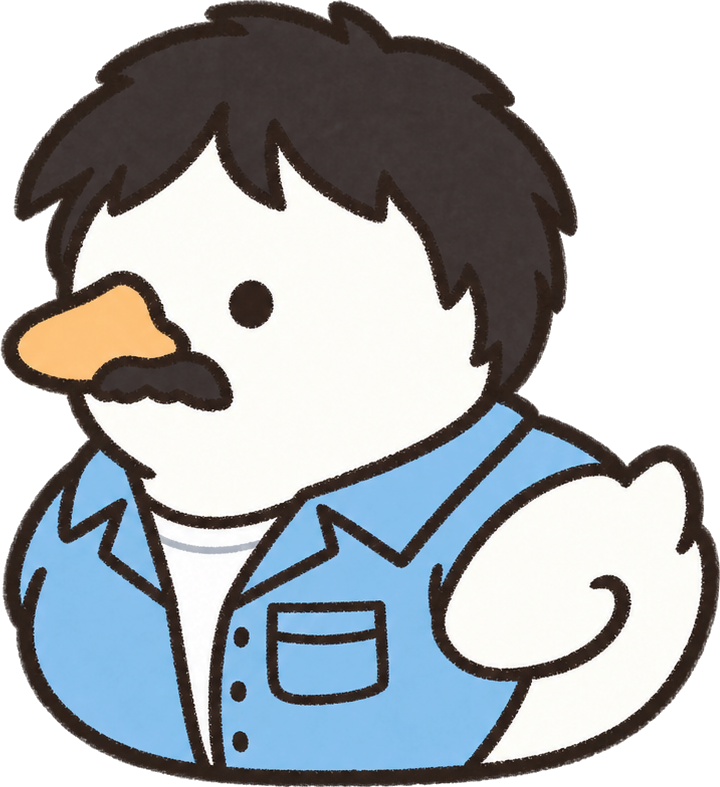
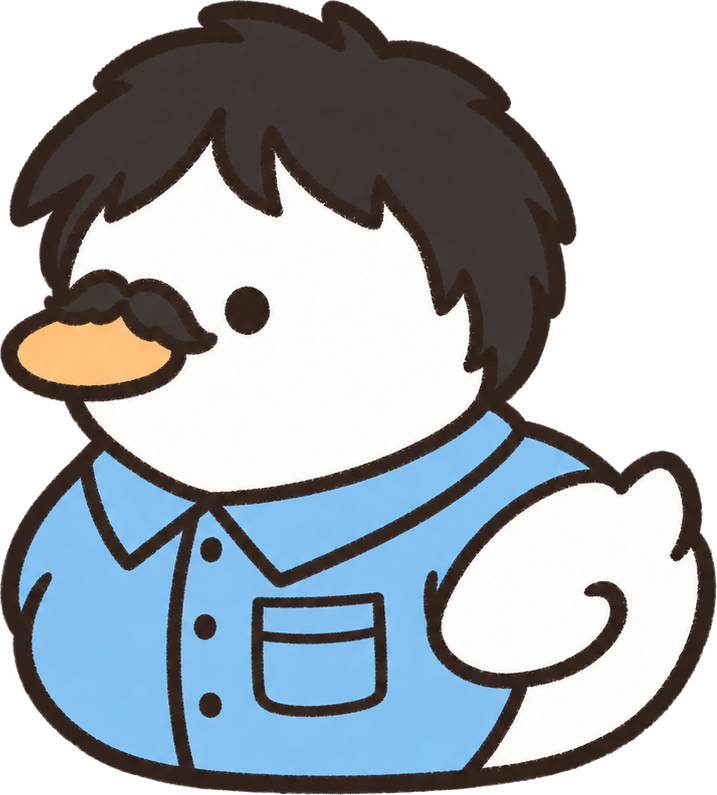
A note on the duck that just hatched, Goku, wittier blurbs, and a few ducks redrawn
The hatched-duck screen has an "Add a note" line: what the session was for, kept with
the session and shown in the log. Super is Goku now, and the blurbs that opened with who
the character is just make their joke. The witch's pail handle sits on the pail; Shulk's
Monado hangs point-down with the real shape; Randy's mustache sits on his beak. The
gallery fetches full-size pictures while you look at the grid, so an enlarged duck is
sharp at once.

diff --git a/web/kinds.js b/web/kinds.js
@@ -19,10 +19,10 @@ window.DAKKU_DUCKS = {
   "blurb": "A cat-ear hoodie. Duck or cat? Yes."
  },
  "super": {
-  "kanji": "金",
-  "name": "Super",
+  "kanji": "悟",
+  "name": "Goku",
   "color": "#F2B83A",
-  "blurb": "Golden hair, orange gi, power level rising."
+  "blurb": "Charges up for three episodes before every session."
  },
  "ninja": {
   "kanji": "忍",
@@ -34,13 +34,13 @@ window.DAKKU_DUCKS = {
   "kanji": "狐",
   "name": "Kitsune",
   "color": "#D9463B",
-  "blurb": "A fox mask from the shrine festival."
+  "blurb": "Keeps its secrets. Also its flashcards."
  },
  "yukata": {
   "kanji": "祭",
   "name": "Matsuri",
   "color": "#4566B8",
-  "blurb": "Dressed up for the summer festival."
+  "blurb": "Fireworks later. Focus first."
  },
  "samurai": {
   "kanji": "侍",
@@ -64,7 +64,7 @@ window.DAKKU_DUCKS = {
   "kanji": "雫",
   "name": "Shizuku",
   "color": "#8EC5EE",
-  "blurb": "A school idol. Every session is a stage."
+  "blurb": "Every session is a stage. No encore needed."
  },
  "nurse": {
   "kanji": "看護",
@@ -82,19 +82,19 @@ window.DAKKU_DUCKS = {
   "kanji": "鳴門",
   "name": "Naruto",
   "color": "#F28C28",
-  "blurb": "Never gives up on a session."
+  "blurb": "Believe it: one more session, dattebayo."
  },
  "loid": {
   "kanji": "黄昏",
   "name": "Loid",
   "color": "#3E6B4F",
-  "blurb": "A spy on a mission: study hard and blend in."
+  "blurb": "Mission: study hard, blend in. Mostly the first one."
  },
  "yor": {
   "kanji": "茨",
   "name": "Yor",
   "color": "#B3243A",
-  "blurb": "The Thorn Princess. Deadly focused."
+  "blurb": "Assassinates distractions. Cooking is another matter."
  },
  "anya": {
   "kanji": "心",
@@ -112,13 +112,13 @@ window.DAKKU_DUCKS = {
   "kanji": "王子",
   "name": "Vegeta",
   "color": "#2F4FA8",
-  "blurb": "A Saiyan prince never skips a study day."
+  "blurb": "It's over 9,000 minutes. Still not satisfied."
  },
  "clive": {
   "kanji": "炎",
   "name": "Clive",
   "color": "#E0632A",
-  "blurb": "A Dominant of fire, with a study plan."
+  "blurb": "Burns through the reading list. Literally."
  },
  "sonic": {
   "kanji": "速",
@@ -130,7 +130,7 @@ window.DAKKU_DUCKS = {
   "kanji": "雲",
   "name": "Cloud",
   "color": "#4C5A7A",
-  "blurb": "Ex-SOLDIER. Carries a sword as big as the syllabus."
+  "blurb": "Carries a sword as big as the syllabus."
  },
  "sora": {
   "kanji": "空",
@@ -142,7 +142,7 @@ window.DAKKU_DUCKS = {
   "kanji": "金星",
   "name": "Venus",
   "color": "#F29A2E",
-  "blurb": "A guardian of love and good study habits."
+  "blurb": "In the name of the moon, you will finish this chapter."
  },
  "yu": {
   "kanji": "鳴上",
@@ -166,19 +166,19 @@ window.DAKKU_DUCKS = {
   "kanji": "龍",
   "name": "Kiryu",
   "color": "#8A2433",
-  "blurb": "The Dragon of Dojima never skips a session."
+  "blurb": "Never skips a session. Or a karaoke night."
  },
  "link": {
   "kanji": "勇",
   "name": "Link",
   "color": "#4F7A3A",
-  "blurb": "Hero of Twilight. Every session is another dungeon cleared."
+  "blurb": "Hey! Listen! Every session is another dungeon cleared."
  },
  "zelda": {
   "kanji": "姫",
   "name": "Zelda",
   "color": "#8E6BB8",
-  "blurb": "Princess of Hyrule. Wisdom, one session at a time."
+  "blurb": "Wisdom, one session at a time. Courage is your problem."
  },
  "miku": {
   "kanji": "初音",
@@ -220,7 +220,7 @@ window.DAKKU_DUCKS = {
   "kanji": "蒼炎",
   "name": "Ike",
   "color": "#2F4C9C",
-  "blurb": "Leader of the Greil Mercenaries. He fights for his focus!"
+  "blurb": "Fights for his friends. Studies for himself."
  },
  "witch": {
   "kanji": "魔女",
@@ -250,7 +250,7 @@ window.DAKKU_DUCKS = {
   "kanji": "探偵",
   "name": "Yagami",
   "color": "#3A3A42",
-  "blurb": "Private detective. Case closed: one more session."
+  "blurb": "Case closed: one more session."
  },
  "eve": {
   "kanji": "星",
@@ -298,6 +298,6 @@ window.DAKKU_DUCKS = {
   "kanji": "父",
   "name": "Randy",
   "color": "#5B8FD6",
-  "blurb": "Geologist, Tegridy farmer, and a terrible influence on the pond."
+  "blurb": "I thought this was a study app! (It is.)"
  }
 };

diff --git a/web/app.js b/web/app.js
@@ -1851,12 +1851,25 @@
     if (!dlg.open) dlg.showModal();
     if (sp) showDuck(sp);
     else $('#ducks-dialog .sheet-body').scrollTop = 0;
+    // the full pictures come in while you look at the grid, so an enlarged duck is sharp at once
+    // (each is small, and kept for good once fetched): the ones you've hatched first
+    if (!pick) warmDucks([...SPECIES].sort((a, b) => (d.bySpecies.get(b) ? 1 : 0) - (d.bySpecies.get(a) ? 1 : 0)));
+  }
+  let warming = false;
+  function warmDucks(kinds) {
+    if (warming) return;
+    warming = true;
+    const queue = [...kinds];
+    const later = (fn) => (window.requestIdleCallback ? requestIdleCallback(fn) : setTimeout(fn, 50));
+    const next = () => { const k = queue.shift(); if (!k) { warming = false; return; } Art.sharpen([k]).finally(() => later(next)); };
+    next();
   }
 
   // one duck, big, with what it's about; ‹ › go through them all
   function showDuck(sp) {
     const info = Art.KINDS[sp], n = derive().bySpecies.get(sp) || 0, i = SPECIES.indexOf(sp);
     const before = SPECIES[(i - 1 + SPECIES.length) % SPECIES.length], after = SPECIES[(i + 1) % SPECIES.length];
+    Art.sharpen([before, after]); // the next ones ‹ › show are sharp at once
     $('#duck-detail').innerHTML = `
       <button class="link" type="button" data-back>← All ducks</button>
       <div class="duck-big">${Art.duckSVG(sp, { big: true })}</div>
@@ -2410,9 +2423,18 @@
     $('#done-stats').innerHTML = `<div><b>${todayMin}<small style="font-size:14px;font-weight:500">/${d.goal}</small></b><span>min today</span></div><div><b>${streak}</b><span>day streak</span></div><div><b>${d.trees + (pending ? 1 : 0)}</b><span>ducks in all</span></div>`;
     $('#done-share').hidden = false;
     $('#done-again').textContent = 'Hatch another';
+    noteBox(s);
     feathers(info.color);
     $('#done').hidden = false;
     render();
+  }
+  // a note on the duck that just hatched (what it was for), kept with its session and shown in the log
+  function noteBox(s) {
+    $('#done-note').hidden = false;
+    $('#done-note-form').hidden = true;
+    $('#done-note-btn').hidden = false;
+    $('#done-note-btn').textContent = s.note ? `Note: ${s.note}` : 'Add a note';
+    $('#done-note-in').value = s.note || '';
   }
   function showWithered(s) {
     if (!s) return;
@@ -2423,6 +2445,7 @@
     $('#done-title').textContent = 'This egg went cold';
     $('#done-sub').textContent = `${fmtMin(s.minutes)}${s.tag ? ` of ${s.tag}` : ''}${s.note ? ` · ${s.note}` : ''}. It stays in your pond, but doesn't count.`;
     $('#done-stats').innerHTML = '';
+    $('#done-note').hidden = true;
     $('#petals').innerHTML = '';
     $('#done-share').hidden = true;
     $('#done-again').textContent = 'Try again';
@@ -3067,6 +3090,24 @@
         return;
       }
       if (await confirmBox('Give up this egg?', 'It goes cold. Cold eggs stay in your pond but don\'t count toward your goal.', 'Give up')) timerAction('cancel');
+    });
+    $('#done-note-btn').addEventListener('click', () => {
+      $('#done-note-btn').hidden = true;
+      $('#done-note-form').hidden = false;
+      $('#done-note-in').focus();
+    });
+    $('#done-note-form').addEventListener('submit', (e) => {
+      e.preventDefault();
+      const s = lastDone;
+      if (!s) return;
+      const note = $('#done-note-in').value.trim().slice(0, 300), now = serverNow();
+      s.note = note;
+      const have = S.sessions.get(s.id);
+      if (have) S.sessions.set(s.id, { ...have, note, updated: now });
+      // the whole session goes along, in case the PC hasn't confirmed this duck yet
+      enqueue({ op: 'upsert', session: { id: s.id, start: s.start, minutes: s.minutes, tag: s.tag, species: s.species, status: s.status, rounds: s.rounds || 0, note, updated: now } });
+      noteBox(s);
+      render();
     });
     $('#done-close').addEventListener('click', () => { $('#done').hidden = true; });
     $('#done').addEventListener('click', (e) => { if (e.target.id === 'done') $('#done').hidden = true; });

diff --git a/web/app.css b/web/app.css
@@ -563,6 +563,10 @@ dialog.sheet.ducks-sheet { width: min(100%, 640px); }
 .done-kanji { font-size: 40px; line-height: 1.1; color: var(--accent); letter-spacing: .1em; }
 .done-title { font: 600 19px/1.3 var(--body); }
 .done-sub { color: var(--ink-2); }
+.done-note { margin: 4px 0 2px; }
+.done-note .link { color: var(--ink-2); max-width: 100%; overflow: hidden; text-overflow: ellipsis; white-space: nowrap; }
+.done-note-form { display: flex; gap: 6px; justify-content: center; margin: 2px auto 0; max-width: 300px; }
+.done-note-form input { flex: 1; min-width: 0; padding: 8px 11px; border-radius: 10px; border: 1px solid var(--line); background: var(--bg); color: var(--ink); font-size: 16px; }
 .done-stats { display: flex; gap: 18px; justify-content: center; margin: 8px 0 4px; flex-wrap: wrap; }
 .done-stats div { display: grid; }
 .done-stats b { font: 700 22px/1.1 var(--body); }

diff --git a/web/index.html b/web/index.html
@@ -475,6 +475,13 @@
       <p class="done-kanji jp" id="done-kanji">誕生</p>
       <h2 class="done-title" id="done-title">A duck hatched!</h2>
       <p class="done-sub" id="done-sub"></p>
+      <div class="done-note" id="done-note">
+        <button class="link" type="button" id="done-note-btn">Add a note</button>
+        <form class="done-note-form" id="done-note-form" hidden>
+          <input type="text" id="done-note-in" maxlength="300" placeholder="What was this one for?" autocomplete="off" enterkeyhint="done">
+          <button class="btn small primary" type="submit">Save</button>
+        </form>
+      </div>
       <div class="done-stats" id="done-stats"></div>
       <div class="done-actions">
         <button class="btn" type="button" id="done-share"><span class="i-share" aria-hidden="true"></span> Share</button>
